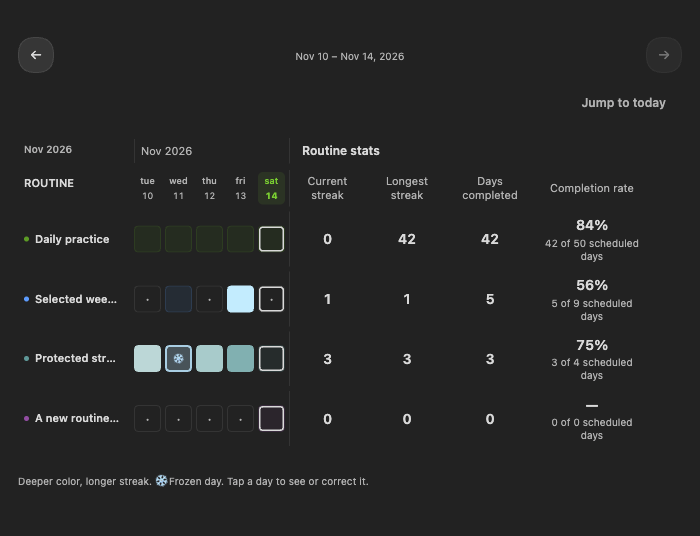
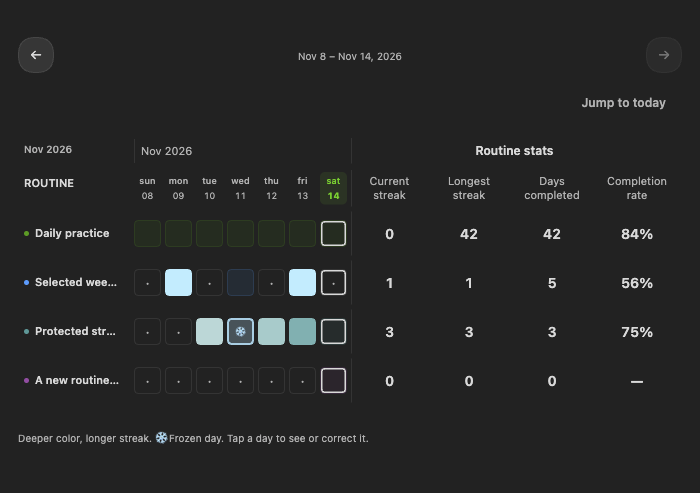
Keep seven dates visible and simplify Routine stats

diff --git a/src/main.ts b/src/main.ts
@@ -1,7 +1,7 @@
 import { Plugin, ItemView, WorkspaceLeaf, Modal, Notice, MarkdownRenderChild, PluginSettingTab, Setting, normalizePath, setIcon, TFile, Platform } from 'obsidian';
 import { emptyData, localDate, addDays, dateRange, dueTasks, dayStatus, toggleCheckin, setFreeze, streakStats, widgetSnapshot, routineAt, freezeAllowance, parseDate, streakColor, newId, type HabitData } from './domain';
-import { boardDaysForWidth, boardShowsInlineStats, BOARD_STATS_WIDTH } from './board-layout';
-import { lifetimeRoutineStats, routineStatValues, routineRateCount, ROUTINE_STAT_LABELS } from './routine-stats';
+import { boardDaysForWidth, boardShowsInlineStats, boardShowsStackedLabels, BOARD_STATS_WIDTH } from './board-layout';
+import { lifetimeRoutineStats, routineStatValues, ROUTINE_STAT_LABELS } from './routine-stats';
 const VIEW = 'daymark-today';
 import { RoutineModal } from './routine-modal';
 import { createAnalyticsState, renderAnalytics } from './analytics-view';
@@ -229,7 +229,7 @@ function taskButton(parent: HTMLElement, plugin: DaymarkPlugin, id: string, name
     el(b, 'span', 'dm-task-name', name);
     if (done) el(b, 'span', 'dm-task-state', 'Done').setAttribute('aria-hidden', 'true');
 }
-interface BoardState { end?: string; days?: number; scrollLeft?: number; followEnd?: boolean; lastToday?: string; inlineStats?: boolean; selectedRoutine?: string; detailId?: string; cleanup?: () => void; }
+interface BoardState { end?: string; days?: number; scrollLeft?: number; followEnd?: boolean; lastToday?: string; inlineStats?: boolean; stackedLabels?: boolean; selectedRoutine?: string; detailId?: string; cleanup?: () => void; }
 function renderBoard(parent: HTMLElement, plugin: DaymarkPlugin, count = 28, state: BoardState = {}) {
     const currentToday = localDate();
     if (state.end === state.lastToday && state.followEnd && state.lastToday !== currentToday) { state.end = currentToday; state.scrollLeft = undefined; }
@@ -243,6 +243,7 @@ function renderBoard(parent: HTMLElement, plugin: DaymarkPlugin, count = 28, sta
         state.end = end;
         host.replaceChildren();
         host.classList.toggle('has-inline-stats', paginated && state.inlineStats === true);
+        host.classList.toggle('has-stacked-labels', paginated && state.stackedLabels === true);
         const today = localDate();
         const pageDays = paginated ? state.days ?? count : count;
         const dates = dateRange(addDays(end, 1 - pageDays), end);
@@ -261,6 +262,7 @@ function renderBoard(parent: HTMLElement, plugin: DaymarkPlugin, count = 28, sta
         if (!paginated) scroll.tabIndex = 0;
         const board = el(scroll, 'div', 'dm-board'); board.style.setProperty('--dm-days', String(pageDays));
         const months = el(board, 'div', 'dm-board-row dm-month-row');
+        if (dates[0].slice(0, 7) === dates[dates.length - 1].slice(0, 7)) months.classList.add('is-single-month');
         const visibleMonth = el(months, 'span', 'dm-board-label is-heading dm-visible-month');
         visibleMonth.setAttribute('aria-label', 'Month at visible start');
         for (let i = 0; i < dates.length;) {
@@ -320,9 +322,8 @@ function renderBoard(parent: HTMLElement, plugin: DaymarkPlugin, count = 28, sta
             const stats = lifetimeStats?.get(r.id);
             if (stats) for (const [index, value] of routineStatValues(stats).entries()) {
                 const cell = el(row, 'span', `dm-board-stat${index === 0 ? ' is-first' : ''}`);
-                cell.setAttribute('aria-label', `${ROUTINE_STAT_LABELS[index][0]}: ${value}${index === 3 ? `, ${routineRateCount(stats)}` : ''}`);
+                cell.setAttribute('aria-label', `${ROUTINE_STAT_LABELS[index][0]}: ${value}`);
                 el(cell, 'strong', 'dm-routine-stat-value', value);
-                if (index === 3) el(cell, 'span', 'dm-routine-stat-count', routineRateCount(stats));
             }
         }
         if (paginated) {
@@ -347,7 +348,6 @@ function renderBoard(parent: HTMLElement, plugin: DaymarkPlugin, count = 28, sta
                     const item = el(list, 'div', 'dm-routine-stat-item');
                     const term = el(item, 'dt', '', ROUTINE_STAT_LABELS[index][0]); term.title = ROUTINE_STAT_LABELS[index][1];
                     const description = el(item, 'dd'); el(description, 'strong', 'dm-routine-stat-value', value);
-                    if (index === 3) el(description, 'span', 'dm-routine-stat-count', routineRateCount(stats));
                 }
                 el(detail, 'p', 'dm-task-meta', 'Lifetime. Unfinished today is excluded from the completion rate.');
             };
@@ -364,11 +364,12 @@ function renderBoard(parent: HTMLElement, plugin: DaymarkPlugin, count = 28, sta
         };
         const fitPage = () => {
             if (!paginated || !scroll.isConnected || !scroll.clientWidth) return false;
-            const labelWidth = nameHeader.getBoundingClientRect().width;
+            const labelWidth = Number.parseFloat(host.ownerDocument.defaultView?.getComputedStyle(host).getPropertyValue('--dm-board-label-width') ?? '') || 112;
             const inlineStats = boardShowsInlineStats(scroll.clientWidth, Platform.isMobile);
-            const needed = boardDaysForWidth(scroll.clientWidth, labelWidth, count, inlineStats ? BOARD_STATS_WIDTH : 0);
-            if (needed === pageDays && inlineStats === (state.inlineStats === true)) return false;
-            state.days = needed; state.inlineStats = inlineStats; draw(end); return true;
+            const stackedLabels = !inlineStats && boardShowsStackedLabels(scroll.clientWidth, labelWidth);
+            const needed = boardDaysForWidth(scroll.clientWidth, stackedLabels ? 0 : labelWidth, count, inlineStats ? BOARD_STATS_WIDTH : 0);
+            if (needed === pageDays && inlineStats === (state.inlineStats === true) && stackedLabels === (state.stackedLabels === true)) return false;
+            state.days = needed; state.inlineStats = inlineStats; state.stackedLabels = stackedLabels; draw(end); return true;
         };
         if (!paginated) scroll.addEventListener('scroll', () => { if (!scroll.isConnected) return; state.scrollLeft = scroll.scrollLeft; state.followEnd = scroll.scrollWidth - scroll.clientWidth - scroll.scrollLeft < 2; updateMonth(); }, { passive: true });
         const place = () => {

diff --git a/styles.css b/styles.css
@@ -351,21 +351,21 @@
 .dm-root .dm-month-name-hidden { visibility: hidden; }
 
 /* Lifetime stats belong only to the paged Markdown Habit Board. */
+.dm-board-host.is-paginated { --dm-board-label-width: 112px; }
 .dm-board-host.is-paginated .dm-board-stat,
 .dm-board-host.is-paginated .dm-board-stat-heading,
 .dm-board-host.is-paginated .dm-routine-stats-heading { display: none; }
 .dm-board-host.is-paginated .dm-board-row:not(.dm-month-row):not(.dm-column-headings) { min-height: 44px; }
-.dm-board-host.has-inline-stats .dm-board-row { grid-template-columns: 112px repeat(var(--dm-days), 27px) 76px 76px 82px 114px; }
+.dm-board-host.has-inline-stats .dm-board-row { grid-template-columns: var(--dm-board-label-width) repeat(var(--dm-days), 27px) 76px 76px 82px 80px; }
 .dm-board-host.has-inline-stats .dm-board-row:not(.dm-month-row):not(.dm-column-headings) > .dm-board-label { display: flex; align-items: center; }
 .dm-board-host.has-inline-stats .dm-board-label::before { flex: 0 0 5px; }
 .dm-board-routine-name-text { min-width: 0; overflow: hidden; text-overflow: ellipsis; white-space: nowrap; }
 .dm-board-host.has-inline-stats .dm-board-stat,
 .dm-board-host.has-inline-stats .dm-board-stat-heading { display: flex; flex-direction: column; align-items: center; justify-content: center; align-self: stretch; min-width: 0; text-align: center; padding: 4px; }
-.dm-board-host.has-inline-stats .dm-routine-stats-heading { display: block; grid-column: span 4; border-inline-start: 1px solid var(--dm-line); padding: 4px 12px; font-size: 12px; font-weight: 600; }
+.dm-board-host.has-inline-stats .dm-routine-stats-heading { display: block; grid-column: span 4; border-inline-start: 1px solid var(--dm-line); padding: 4px 12px; font-size: 12px; font-weight: 600; text-align: center; }
 .dm-board-host.has-inline-stats .dm-board-stat-heading { font-size: 11px; line-height: 1.3; color: var(--text-muted); }
 .dm-board-host.has-inline-stats .is-first { border-inline-start: 1px solid var(--dm-line); }
 .dm-routine-stat-value { font-size: 14px; line-height: 1.35; font-weight: 600; color: var(--text-normal); font-variant-numeric: tabular-nums; }
-.dm-routine-stat-count { display: block; font-size: 10px; line-height: 1.3; color: var(--text-muted); margin-top: 2px; overflow-wrap: anywhere; }
 .dm-board-host.is-paginated .dm-board-routine-button { display: block; position: sticky; min-height: 44px; height: auto; padding: 6px 20px 6px 6px; border: 0; border-radius: 0; background: var(--dm-surface); color: var(--text-normal); text-align: left; font-size: 11px; white-space: nowrap; }
 .dm-board-host.is-paginated .dm-board-routine-button[aria-expanded=true] { background: var(--background-modifier-hover); }
 .dm-routine-stats-chevron { display: inline-flex; position: absolute; right: 4px; top: 50%; transform: translateY(-50%); color: var(--text-muted); }
@@ -377,5 +377,13 @@
 .dm-routine-stats-list { display: grid; grid-template-columns: repeat(2, minmax(0,1fr)); gap: 16px; margin: 0 0 12px; }
 .dm-routine-stat-item dt { font-size: 12px; color: var(--text-muted); margin-bottom: 4px; }
 .dm-routine-stat-item dd { margin: 0; }
-.dm-routine-stat-item .dm-routine-stat-count { font-size: 11px; }
 .dm-routine-stats-detail > .dm-task-meta { font-size: 11px; line-height: 1.45; }
+.dm-board-host.has-stacked-labels .dm-board { width: 100%; min-width: 0; }
+.dm-board-host.has-stacked-labels .dm-board-row { grid-template-columns: repeat(var(--dm-days), minmax(0,1fr)); grid-auto-flow: row; }
+.dm-board-host.has-stacked-labels .dm-board-label { grid-column: 1 / -1; }
+.dm-board-host.has-stacked-labels .dm-column-headings > .dm-board-label { display: none; }
+.dm-board-host.has-stacked-labels .dm-month-row.is-single-month > .dm-visible-month { display: none; }
+.dm-board-host.has-stacked-labels .dm-board-routine-button { position: relative; width: 100%; }
+.dm-board-host.has-stacked-labels .dm-cell { justify-self: center; max-width: 100%; height: auto; min-height: 0; aspect-ratio: 1; }
+.dm-board-host.has-stacked-labels .dm-date-label { min-width: 0; }
+@media (max-width: 420px) { .dm-board-host.is-paginated { --dm-board-label-width: 94px; } }

diff --git a/tests/board-layout.test.ts b/tests/board-layout.test.ts
@@ -1,28 +1,35 @@
 import test from 'node:test';
 import assert from 'node:assert/strict';
-import { boardDaysForWidth, boardShowsInlineStats } from '../src/board-layout.ts';
+import { boardDaysForWidth, boardShowsInlineStats, boardShowsStackedLabels, BOARD_STATS_WIDTH } from '../src/board-layout.ts';
 
 test('Habit Board fits whole fixed-size date cells into desktop and narrow panes', () => {
     for (const [width,label] of [[664,112],[480,112],[254,94]]) {
-        const days=boardDaysForWidth(width,label);
+        const effectiveLabel=boardShowsStackedLabels(width,label)?0:label;
+        const days=boardDaysForWidth(width,effectiveLabel);
         assert.ok(days>=1&&days<=28);
-        assert.ok(label+days*31+4<=width);
-        assert.ok(days===28||label+(days+1)*31+4>width);
+        assert.ok(effectiveLabel+days*31+4<=width);
+        assert.ok(days===28||effectiveLabel+(days+1)*31+4>width);
     }
-    assert.equal(boardDaysForWidth(254,94),5);
+    assert.equal(boardDaysForWidth(254,0),8);
+    assert.equal(boardDaysForWidth(180,0),7);
     assert.equal(boardDaysForWidth(1400),28);
     assert.equal(boardDaysForWidth(0),28);
 });
 
 test('desktop stats reserve room while retaining complete date columns',()=>{
-    for(const width of [640,720,900,1200,1600]){
-        const days=boardDaysForWidth(width,112,28,364);
-        assert.ok(days>=5);
-        assert.ok(112+days*31+4+364<=width);
+    for(const width of [664,720,900,1200,1600]){
+        const days=boardDaysForWidth(width,112,28,BOARD_STATS_WIDTH);
+        assert.ok(days>=7);
+        assert.ok(112+days*31+4+BOARD_STATS_WIDTH<=width);
     }
 });
 test('narrow panes and mobile use the compact stats section',()=>{
     assert.equal(boardShowsInlineStats(664,false),true);
     assert.equal(boardShowsInlineStats(390,false),false);
     assert.equal(boardShowsInlineStats(844,true),false);
+});
+
+test('routine names stack before the grid when a label rail would hide the seventh day',()=>{
+    assert.equal(boardShowsStackedLabels(256,94),true);
+    assert.equal(boardShowsStackedLabels(664,112),false);
 });

diff --git a/tests/routine-stats.test.ts b/tests/routine-stats.test.ts
@@ -1,7 +1,7 @@
 import test from 'node:test';
 import assert from 'node:assert/strict';
 import { createRoutine, emptyData, toggleCheckin, setFreeze, updateRoutine, addDays, dateRange } from '../src/domain.ts';
-import { lifetimeRoutineStats, routineStatValues, routineRateCount } from '../src/routine-stats.ts';
+import { lifetimeRoutineStats, routineStatValues } from '../src/routine-stats.ts';
 const today='2026-11-14', daily=[0,1,2,3,4,5,6];
 function create(weekdays=daily, start='2026-11-01') {
   const data=createRoutine(emptyData(),{name:'Routine',color:'#249c03',tasks:[{name:'Task',weekdays}]},start);
@@ -13,7 +13,6 @@ test('lifetime daily counts include all history and omit an unfinished today',()
   const stats=lifetimeRoutineStats(data,id,today);
   assert.deepEqual(stats,{current:0,longest:42,completedDays:42,eligibleDays:50,rate:.84});
   assert.deepEqual(routineStatValues(stats),['0','42','42','84%']);
-  assert.equal(routineRateCount(stats),'42 of 50 scheduled days');
 });
 test('custom weekday schedule excludes rest days and partial routine days earn no completion',()=>{
   let {data,id,task}=create([1,3,5]);

diff --git a/src/board-layout.ts b/src/board-layout.ts
@@ -1,9 +1,11 @@
 /** Dates use fixed 27px cells, 4px gutters, and an always-visible routine label. */
-export const BOARD_STATS_MIN_WIDTH = 640;
-// Four fixed stat columns (76, 76, 82, 114px) plus their four 4px gutters.
-export const BOARD_STATS_WIDTH = 364;
+export const BOARD_MIN_DAYS = 7;
+// Four stat columns (76, 76, 82, 80px) plus their four 4px gutters.
+export const BOARD_STATS_WIDTH = 330;
+export const BOARD_STATS_MIN_WIDTH = 112 + BOARD_STATS_WIDTH + 4 + BOARD_MIN_DAYS * 31;
 export function boardShowsInlineStats(width: number, mobile: boolean) { return !mobile && width >= BOARD_STATS_MIN_WIDTH; }
+export function boardShowsStackedLabels(width: number, labelWidth: number) { return width < labelWidth + 4 + BOARD_MIN_DAYS * 31; }
 export function boardDaysForWidth(width: number, labelWidth = 112, maximum = 28, statsWidth = 0): number {
     if (!Number.isFinite(width) || width <= 0) return maximum;
-    return Math.max(1, Math.min(maximum, Math.floor((width - labelWidth - statsWidth - 4) / 31)));
+    return Math.max(BOARD_MIN_DAYS, Math.min(maximum, Math.floor((width - labelWidth - statsWidth - 4) / 31)));
 }

diff --git a/src/routine-stats.ts b/src/routine-stats.ts
@@ -19,4 +19,3 @@ export const ROUTINE_STAT_LABELS = [
 export function routineStatValues(stats: LifetimeRoutineStats) {
     return [String(stats.current), String(stats.longest), String(stats.completedDays), stats.rate === null ? '—' : `${Math.round(stats.rate * 100)}%`];
 }
-export function routineRateCount(stats: LifetimeRoutineStats) { return `${stats.completedDays} of ${stats.eligibleDays} scheduled days`; }

diff --git a/docs/HABIT-BOARD-STATS.md b/docs/HABIT-BOARD-STATS.md
@@ -2,16 +2,16 @@
 
 This Operate surface extends only the Markdown Habit Board. Empty Daymark blocks now select it; other views keep their explicit options. The Today mini-board and analytics calculations are unchanged.
 
-The four exact labels are Current streak, Longest streak, Days completed, and Completion rate. Wide desktop panes reserve space for four columns beside the date grid; each routine’s cells and stats share one row. Narrow panes and mobile use a 44px routine-name button to toggle one compact section below the board. Each block owns its selection. Existing date pagination adjusts the number of complete 27px columns, keeping today at the grid’s right edge on first open and after Jump to today. No Rate period selector is rendered.
+The four exact labels are Current streak, Longest streak, Days completed, and Completion rate. Wide desktop panes reserve space for four columns beside the date grid; each routine’s cells and stats share one row. Narrow panes and mobile use a 44px routine-name button to toggle one compact section below the board. Each block owns its selection. The title is centered above the four stat columns and completion rate is percentage-only. Date pagination keeps at least seven dates visible, stacking routine names above date cells in very narrow panes, keeping today at the grid’s right edge on first open and after Jump to today. No Rate period selector is rendered.
 
 `lifetimeRoutineStats` calls the existing `streakStats` and `dayStatus` functions over the routine’s full history. It excludes an unfinished today from scheduled-day eligibility. Completing today includes it immediately; once a day ends, its scheduled occurrence stays eligible. Rest days and future dates are excluded. Frozen past days remain scheduled without adding completion credit. Zero eligible days display an em dash. Browsing history never changes the stats’ date scope.
 
 ## Verified
 
-- `npm run check`: official Obsidian ESLint rules, strict TypeScript, production bundle, **48 automated tests**, release metadata, and README links passed.
+- `npm run check`: official Obsidian ESLint rules, strict TypeScript, production bundle, **49 automated tests**, release metadata, and README links passed.
 - New pure cases cover 42 of 50 daily occurrences (84%), selected weekdays with partial completion, freezes, correction, today completion/undo, midnight eligibility, no history, future records, and historical schedule revisions.
 - Source and production-bundle integration verify the empty-block default, routine selection, stats refresh after check-in, and absence of stats in the Today mini-board.
-- `node scripts/board-stats-ui-check.mjs`: passed in light/dark themes at desktop **1200 × 900** and phone width **390 × 900**. The actual usable panes were 664px and 256px wide. Desktop uses four aligned stats columns; the narrow pane uses the compact section. The script tests exact labels and counts, Enter/Space activation, emulated touch, no inner scrolling, month-boundary browsing, correction/undo, returning focus to the date cell, new-routine today completion/undo, and Jump to today. Records and saved bytes are restored.
+- `node scripts/board-stats-ui-check.mjs`: passed in light/dark themes at desktop **1200 × 900** and phone widths **390 × 900** and **320 × 900**. The actual usable panes were 664px, 256px, and 186px wide. The board showed seven, eight, and seven date columns respectively. Desktop uses four aligned stats columns; the narrow pane uses the compact section. The script tests exact labels and counts, Enter/Space activation, emulated touch, no inner scrolling, month-boundary browsing, correction/undo, returning focus to the date cell, new-routine today completion/undo, and Jump to today. Records and saved bytes are restored.
 - Existing board layout, history correction, and multi-view Markdown regression scripts passed. Explicit analytics views and invalid-option messaging remain available. The history test now browses to a month boundary because reserving stats space can shorten the current date page.
 - Mobile mode forces the compact section even in wider landscape widths; the layout helper is covered by a mobile-flag unit test.
 

diff --git a/README.md b/README.md
@@ -58,7 +58,7 @@ view: habit-board
 
 ![Habit Board with routine colors, month labels, and date navigation](docs/images/habit-board.png)
 
-**Habit Board is the default.** An empty `habit-board` block opens this view. The note’s available width determines how many complete date columns fit. The board pages with the arrows and has no internal scrolling. Select a day to inspect tasks, correct a check-in, or use an eligible freeze.
+**Habit Board is the default.** An empty `habit-board` block opens this view. At least seven date columns stay visible. In very narrow panes, routine names sit above their date cells. The available width determines how many additional dates fit. The board pages with the arrows and has no internal scrolling. Select a day to inspect tasks, correct a check-in, or use an eligible freeze.
 
 **Routine stats** use each routine’s full history, independently of the dates you are browsing. Wide panes show four columns beside the grid, aligned with each routine. In narrow panes and on mobile, select a routine name (click, tap, Enter, or Space) to show its stats below the board.
 
@@ -69,7 +69,7 @@ view: habit-board
 | **Days completed** | The total number of scheduled days on which all due tasks were completed. |
 | **Completion rate** | Completed scheduled days divided by eligible scheduled days across the routine’s full history. |
 
-Completion rate includes its count, for example **84%** and **42 of 50 scheduled days**. Unscheduled days and future dates are excluded. An unfinished today joins the denominator only after the day ends; a completed today joins immediately. A frozen past day is scheduled but does not add a completion. With no eligible days, the rate is **—**. There is no Rate period selector.
+Completion rate displays the percentage only, for example **84%**. Unscheduled days and future dates are excluded. An unfinished today joins the denominator only after the day ends; a completed today joins immediately. A frozen past day is scheduled but does not add a completion. With no eligible days, the rate is **—**. There is no Rate period selector.
 
 ![Routine stats below the board in a narrow pane](docs/images/routine-stats-light-390.png)
 

diff --git a/DESIGN.md b/DESIGN.md
@@ -47,6 +47,6 @@ The grids, palette, headers, range navigation, Markdown options, schedule/streak
 
 ## Habit Board routine stats
 
-The default empty Markdown block now renders Habit Board. Only its paginated Markdown renderer adds Routine stats; the Today mini-board and analytics views retain their own presentation and calculations. At 640px or more of usable grid width on desktop, four stat columns share each routine’s grid row. Date pagination reserves the columns’ width before fitting complete 27px date cells. Narrow panes and mobile devices use 44px routine-name buttons and one compact, selected-routine section below the board, independent for each block. Selection survives paging and refreshes.
+The default empty Markdown block now renders Habit Board. Only its paginated Markdown renderer adds Routine stats; the Today mini-board and analytics views retain their own presentation and calculations. When the pane fits at least seven dates plus four stat columns on desktop, the stats share each routine’s grid row. The Routine stats title is centered over those columns. Date pagination reserves the columns’ width while keeping at least seven dates visible. Very narrow panes put routine names above the date cells; cells retain 27px size when space permits. Completion rate is percentage-only. Narrow panes and mobile devices use 44px routine-name buttons and one compact, selected-routine section below the board, independent for each block. Selection survives paging and refreshes.
 
 Stats reuse `streakStats` over full history. Completion-rate eligibility subtracts an unfinished today; prior scheduled dates, including freezes, stay in the denominator. Completing today includes it immediately. A zero denominator shows an em dash. Date-range navigation never changes lifetime stats. The mode of this surface is Operate: retain the palette, date/month headers, corrections, and Jump to today while making lifetime counts readable.

diff --git a/docs/releases/0.2.0.md b/docs/releases/0.2.0.md
@@ -1,6 +1,6 @@
-Habit Board now includes lifetime **Routine stats**: Current streak, Longest streak, Days completed, and Completion rate with its exact completed/eligible count.
+Habit Board now includes lifetime **Routine stats**: Current streak, Longest streak, Days completed, and Completion rate as a percentage.
 
-Wide desktop panes display four columns aligned beside each routine’s date cells. Narrow panes and mobile use a compact section below the board, opened by activating a routine name. Stats stay independent of the visible date range and update when a check-in is corrected. There is no Rate period selector.
+Wide desktop panes display four columns aligned beside each routine’s date cells. Narrow panes and mobile use a compact section below the board, opened by activating a routine name. At least seven dates stay visible; routine names move above their date cells when needed. The desktop Routine stats title is centered, and the rate omits completed/eligible count text. Stats stay independent of the visible date range and update when a check-in is corrected. There is no Rate period selector.
 
 The completion rate excludes unscheduled and future days. Today is eligible when completed or after it ends. Frozen past days preserve the streak but add no completion credit. Routines with no eligible history show an em dash for the rate.
 
